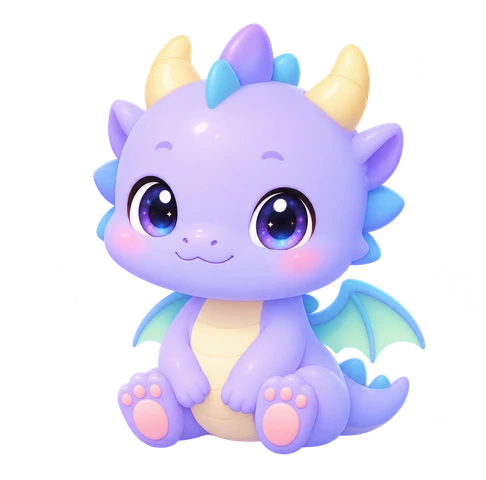
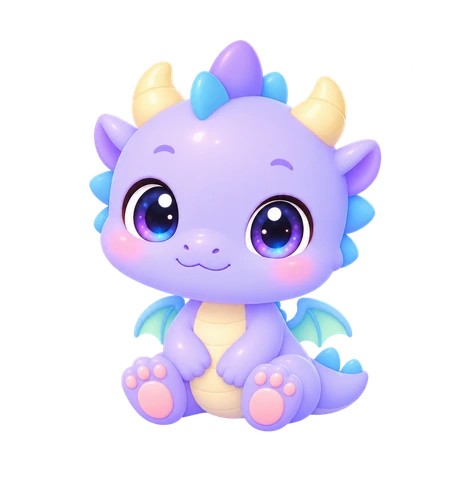
펫 1·2단계(아기 드래곤·개구쟁이 드래곤) 원화 교체 (#647)
사용자가 새 원화 두 장으로 바꿔 줬다 — 앉아서 차분히 웃는 쪽을 1단계(아기)에,
폴짝 뛰며 입 벌려 웃는 역동적인 쪽을 2단계(개구쟁이)에 맞췄다.
CLAUDE.md 6에 따라 구버전 원본(stage1/2-dragon-src.webp)은 지우고 새로 v2로
넣었다. 배포본은 같은 파일명(stage1.webp·stage2.webp)에 덮어써서 코드 변경 없음.

Claude-Session: https://claude.ai/code/session_018maNuYqDfFyRSe9uKpZhPR

Changed region(s): [[0.1772, 0.0312, 0.8861, 0.9688], [0.3544, 0.5, 0.5021, 0.5625], [0.3249, 0.2812, 0.3544, 0.3438]]

diff --git a/art-src/README.md b/art-src/README.md
@@ -437,15 +437,20 @@ bbox로 여백만 잘라내고 배포본은 높이 480px로 축소했다(전부 
 등장하는 자리 셋 다 이 규칙을 따른다 — 무대 위 알/펫(HeroStage), 펫 소개 시트의
 큰 그림·진화 단계 줄(PetSheet), 보물상자를 열어 부화·진화할 때 뜨는 이벤트 팝업
 (App.jsx showGameEvent — 레벨업 진화 팝업과 같은 '이전→진화 그림' 틀을 그대로 썼다).
-2~4단계는 이름·설명만 보고 어울리는 색으로 짝지었다 — 개구쟁이(장난스러운 보라,
-양팔 들고 활짝 웃음) · 청룡(이름 그대로 파랑, 팔짱 낀 늠름한 자세) · 전설(수정 장식
-얹은 보라, 반짝이는 눈) — 사용자가 순서를 다르게 의도했으면 알려 주면 다시 짝짓는다.
+2~4단계는 이름·설명만 보고 어울리는 색으로 짝지었다 — 청룡(이름 그대로 파랑,
+팔짱 낀 늠름한 자세) · 전설(수정 장식 얹은 보라, 반짝이는 눈).
+
+**[사용자 확정 2026-08-24] 1·2단계 교체** — 처음 짝지었던 아기 드래곤(양팔 들고
+웃는 포즈)·개구쟁이 드래곤(같은 포즈, 다른 색)은 사용자가 새 원화 두 장으로
+바꿔 줬다. 규칙 6에 따라 구버전 원본(stage1/2-dragon-src.webp)은 지우고
+새 원화를 v2로 넣었다 — 앉아서 웃는 차분한 쪽을 1단계(아기)에, 폴짝 뛰며
+입 벌려 웃는 역동적인 쪽을 2단계(개구쟁이)에 맞췄다.
 
 | 원화 | 용도 | 탑재 에셋 |
 |---|---|---|
 | pet/egg-src.webp | 0단계 '신비한 알' (1254×1254 → bbox 크롭 1168×1223) | pet/egg.webp |
-| pet/stage1-dragon-src.webp | 1단계 '아기 드래곤' (1288×1221 → bbox 크롭 1212×1196) | pet/stage1.webp |
-| pet/stage2-dragon-src.webp | 2단계 '개구쟁이 드래곤' (1224×1285 → bbox 크롭 1194×1266) | pet/stage2.webp |
+| pet/stage1-dragon-v2-src.webp | 1단계 '아기 드래곤' v2 (1254×1254 → bbox 크롭 1187×1201, 앉아서 차분히 웃는 포즈) | pet/stage1.webp |
+| pet/stage2-dragon-v2-src.webp | 2단계 '개구쟁이 드래곤' v2 (1254×1254 → bbox 크롭 1240×1240, 폴짝 뛰며 입 벌려 웃는 포즈) | pet/stage2.webp |
 | pet/stage3-dragon-src.webp | 3단계 '늠름한 청룡' (1230×1278 → bbox 크롭 1216×1270) | pet/stage3.webp |
 | pet/stage4-dragon-src.webp | 4단계 '전설의 드래곤' (1224×1285 → bbox 크롭 1208×1284) | pet/stage4.webp |
 
